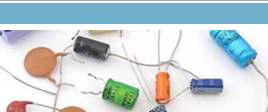
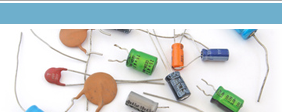
made home#welcome astrechable and high-def

diff --git a/stylesheets/application.css b/stylesheets/application.css
@@ -242,7 +242,7 @@ h1 a:hover, h2 a:hover, h3 a:hover, h4 a:hover, h5 a:hover { text-decoration: no
   height: 112px;
 }
 .controller-welcome #welcome  {
-  background: transparent url(../images/home-welcome-background.png) 0 0 no-repeat;
+  background: transparent url(../images/home-welcome-background.png) 0 0 repeat-x;
   height: 112px;
 }
 #featured-projects-title  {
